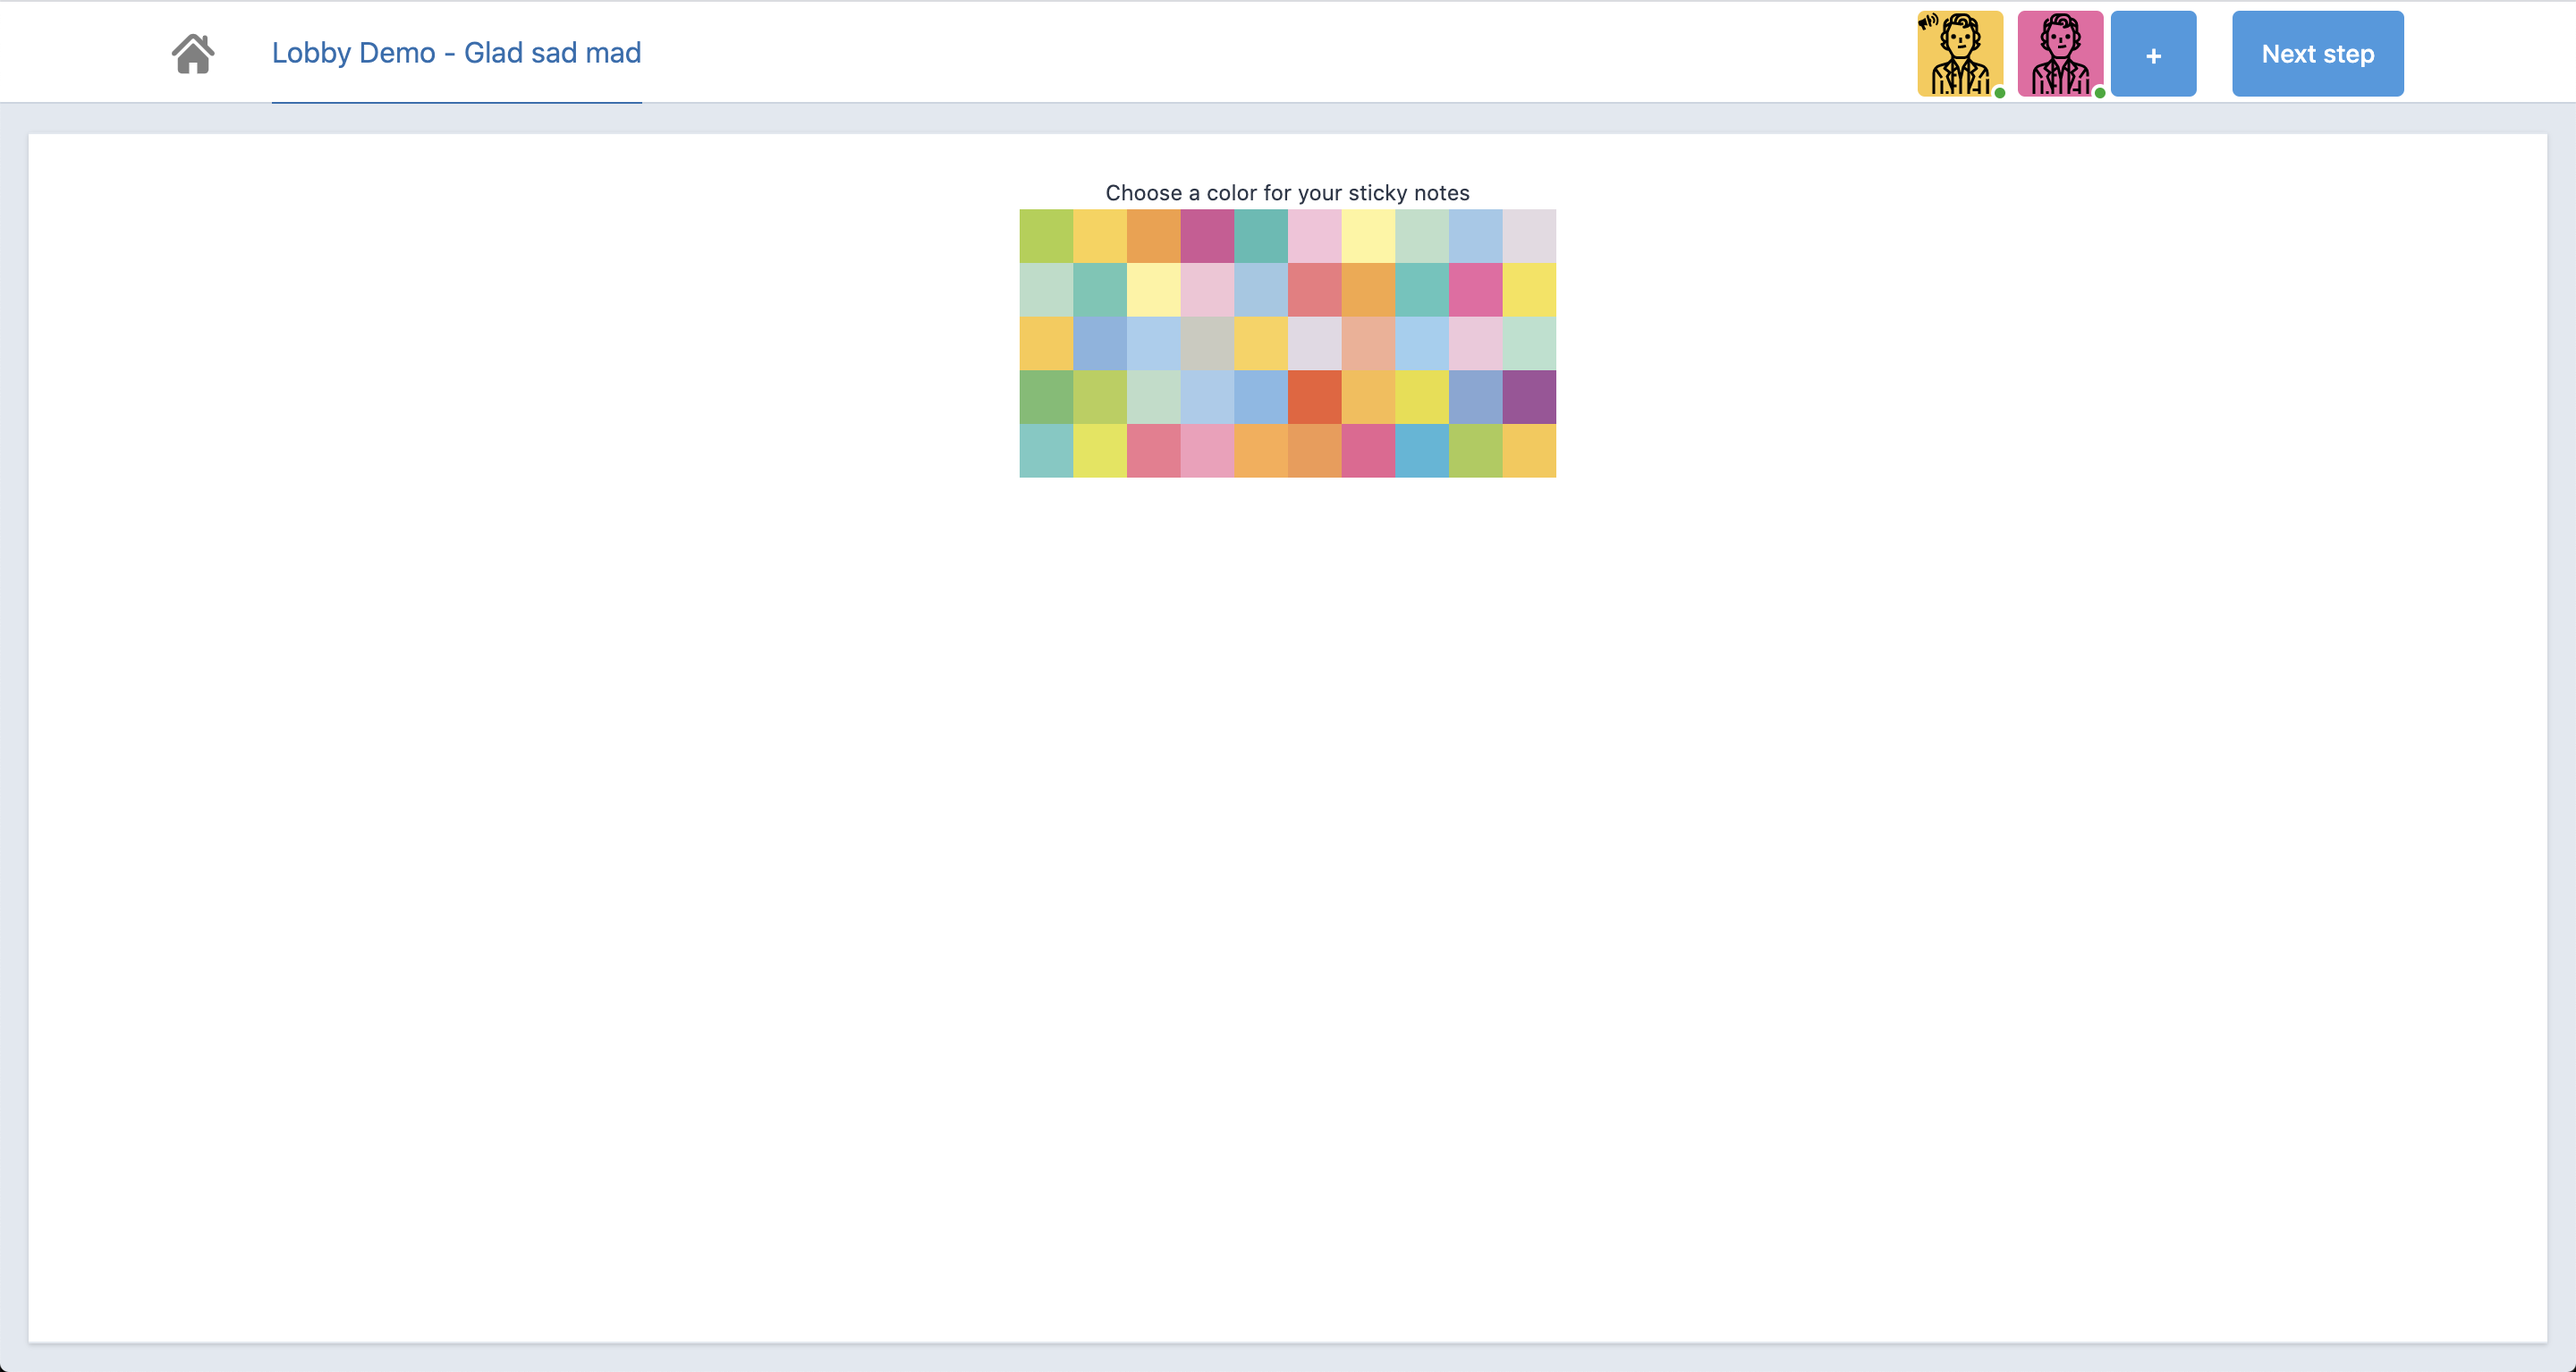
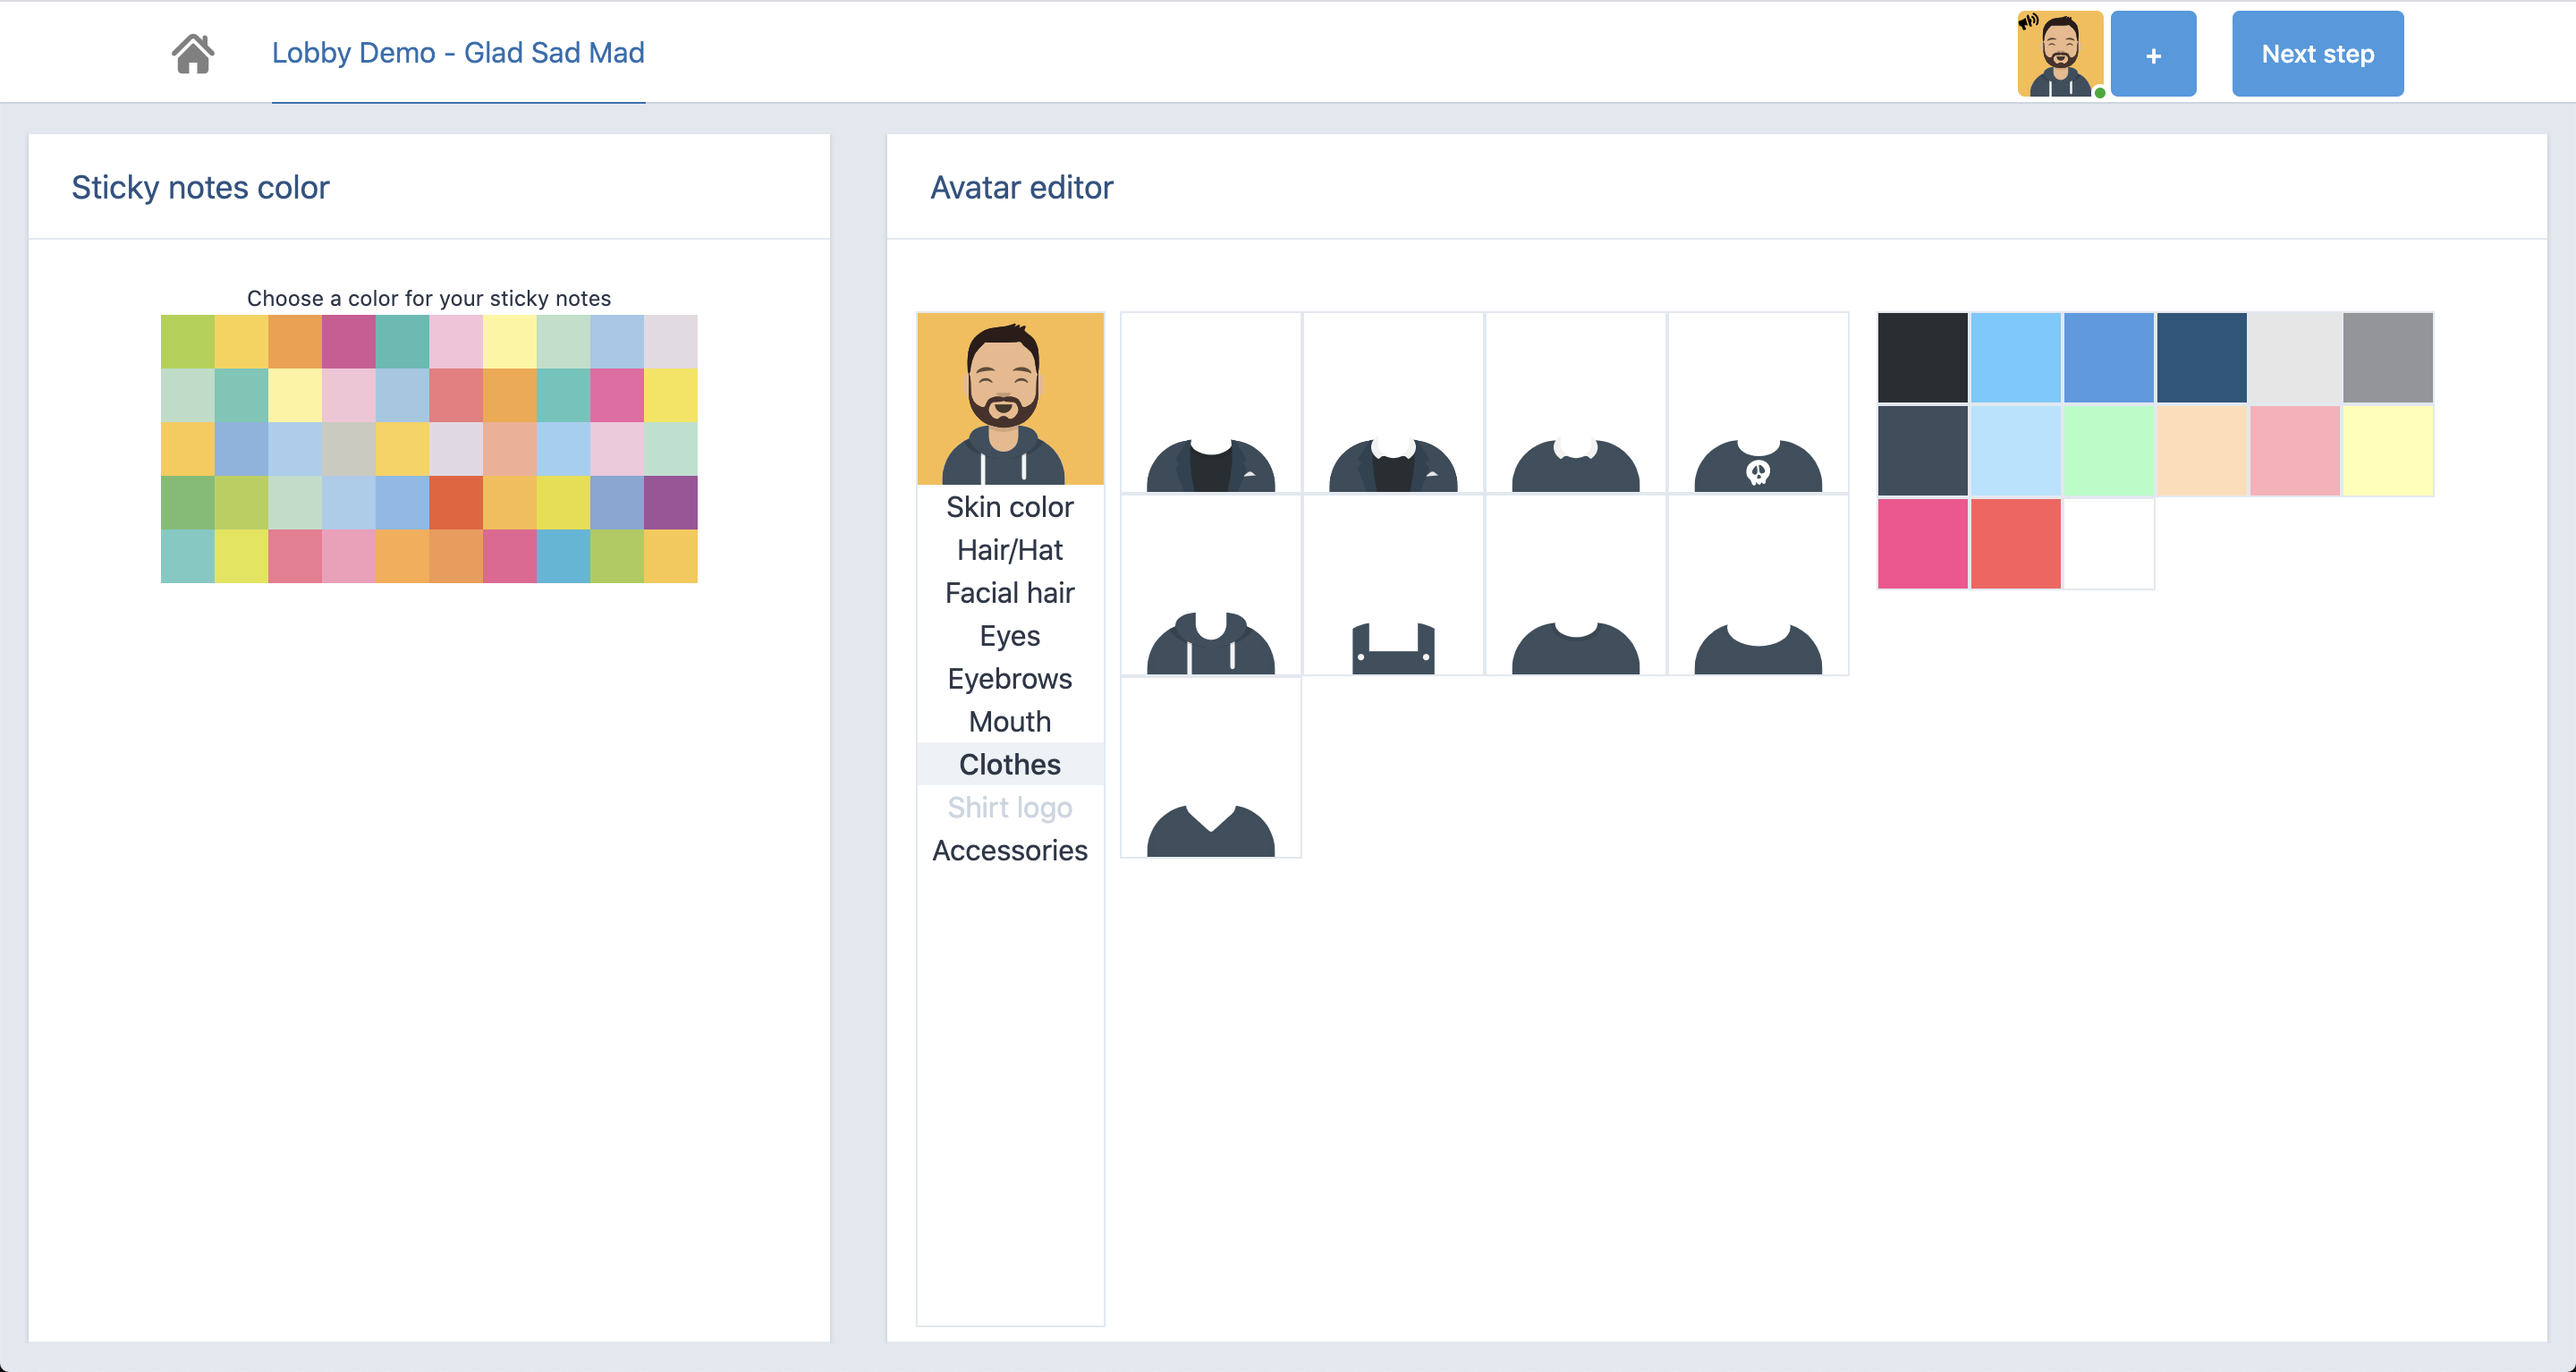
Add a button to sign in with Google (#189)

diff --git a/app/javascript/components/AuthenticationForm.js b/app/javascript/components/AuthenticationForm.js
@@ -1,10 +1,12 @@
 import React from 'react'
 import PropTypes from 'prop-types'
 import { post } from 'lib/httpClient'
+import Card from './Card'
 import Input from './Input'
 import Button from './Button'
+import GoogleButton from 'images/btn_google_signin_light_normal_web@2x.png'
 
-const AuthenticationForm = ({ defaultEmail, onLogIn }) => {
+const AuthenticationForm = ({ defaultEmail, onLogIn, returnUrl }) => {
   const [mode, setMode] = React.useState('signIn')
   const [username, setUsername] = React.useState('')
   const [email, setEmail] = React.useState(defaultEmail || '')
@@ -47,31 +49,41 @@ const AuthenticationForm = ({ defaultEmail, onLogIn }) => {
 
   return (
     <div className='max-w-xl min-w-1/2 mx-auto mt-4'>
-      <form noValidate autoComplete='off' onSubmit={handleSubmit}>
-        <p className='mb-3'>{mode === 'signUp' ? 'Create an account' : 'Log in'}</p>
-        <div>
-          <div className='mb-4'>
-            <Input placeholder='E-mail' name='email' value={email} onChange={(event) => setEmail(event.target.value)} />
-          </div>
-          <div className='mb-4'>
-            <Input placeholder='Password' name='password' value={password} type='password' onChange={(event) => setPassword(event.target.value)} />
-          </div>
-          {mode === 'signUp' && (
+      <Card title={mode === 'signUp' ? 'Create an account' : 'Log in'} center>
+        <form noValidate autoComplete='off' onSubmit={handleSubmit} className='w-full'>
+          <div>
             <div className='mb-4'>
-              <Input placeholder='Username' name='username' value={username} onChange={(event) => setUsername(event.target.value)} />
+              <Input placeholder='E-mail' name='email' value={email} onChange={(event) => setEmail(event.target.value)} />
             </div>
-          )}
-          {mode === 'signIn' && !passwordResetToastDisplayed && <div className='mb-4'><Button primary onClick={resetPassword}>I forgot my password</Button></div>}
-          {mode === 'signIn' && passwordResetToastDisplayed && <div className='mb-4'>An email has been sent</div>}
-        </div>
+            <div className='mb-4'>
+              <Input placeholder='Password' name='password' value={password} type='password' onChange={(event) => setPassword(event.target.value)} />
+            </div>
+            {mode === 'signUp' && (
+              <div className='mb-4'>
+                <Input placeholder='Username' name='username' value={username} onChange={(event) => setUsername(event.target.value)} />
+              </div>
+            )}
+            {mode === 'signIn' && !passwordResetToastDisplayed && <div className='mb-4'><Button primary onClick={resetPassword}>I forgot my password</Button></div>}
+            {mode === 'signIn' && passwordResetToastDisplayed && <div className='mb-4'>An email has been sent</div>}
+          </div>
 
-        <div className='flex items-center justify-between'>
-          <Button contained primary type='submit'>{mode === 'signUp' ? 'Create account' : 'Login'}</Button>
-          <Button primary onClick={toggleMode}>
-            {mode === 'signIn' ? "Don't have an account yet?" : 'Already have an account?'}
-          </Button>
+          <div className='flex items-center justify-between'>
+            <Button contained primary type='submit'>{mode === 'signUp' ? 'Create account' : 'Login'}</Button>
+            <Button primary onClick={toggleMode}>
+              {mode === 'signIn' ? "Don't have an account yet?" : 'Already have an account?'}
+            </Button>
+          </div>
+        </form>
+      </Card>
+
+      {window.constants.googleAuthenticationEnabled && (
+        <div className='text-center mt-4 flex justify-center'>
+          <a href={`/auth/google_oauth2?return_to=${returnUrl ? returnUrl : '/dashboard'}`}>
+            <span>or</span>
+            <img id='google-authentication' src={GoogleButton} width='200' />
+          </a>
         </div>
-      </form>
+      )}
     </div>
   )
 }
@@ -79,6 +91,7 @@ const AuthenticationForm = ({ defaultEmail, onLogIn }) => {
 AuthenticationForm.propTypes = {
   defaultEmail: PropTypes.string,
   onLogIn: PropTypes.func.isRequired,
+  returnUrl: PropTypes.string
 }
 
 export default AuthenticationForm

diff --git a/app/javascript/components/App.js b/app/javascript/components/App.js
@@ -78,8 +78,8 @@ const App = withRouter(({ history }) => {
         <Route path='/sessions/new'>
           <AuthenticationForm
             defaultEmail={initialEmail}
+            returnUrl={returnUrl}
             onLogIn={() => {
-              console.log('Logged in, redirecting to', returnUrl ? returnUrl : '/')
               setLoggedIn(true)
               history.replace(returnUrl ? returnUrl : '/')
              }} />

diff --git a/test/integration/login_test.rb b/test/integration/login_test.rb
@@ -29,4 +29,44 @@ class LoginTest < ActionDispatch::IntegrationTest
     refute_text 'My actions'
     assert_text 'Log in'
   end
+
+  test 'can create a new account with Google' do
+    visit '/'
+    assert_text 'Log in'
+
+    ApplicationController.stub_const(:AUTHORIZED_DOMAINS, ['@notmycompany.com']) do
+      find('#google-authentication').click
+
+      refute_text 'My actions'
+      assert_text 'Log in'
+    end
+
+    ApplicationController.stub_const(:AUTHORIZED_DOMAINS, ['@company.com']) do
+      find('#google-authentication').click
+
+      assert_text 'My actions'
+      assert_equal 'myemail@company.com', Account.last.email
+      assert_equal 'account', Account.last.username
+    end
+  end
+
+  test 'can authenticate to an existing account with Google' do
+    account = create(:account, email: 'myemail@company.com', password: 'mypassword')
+
+    visit '/'
+    assert_text 'Log in'
+
+    ApplicationController.stub_const(:AUTHORIZED_DOMAINS, ['@notmycompany.com']) do
+      find('#google-authentication').click
+
+      refute_text 'My actions'
+      assert_text 'Log in'
+    end
+
+    ApplicationController.stub_const(:AUTHORIZED_DOMAINS, ['@company.com']) do
+      find('#google-authentication').click
+
+      assert_text 'My actions'
+    end
+  end
 end

diff --git a/app/controllers/sessions_controller.rb b/app/controllers/sessions_controller.rb
@@ -21,17 +21,23 @@ class SessionsController < ApplicationController
   end
 
   def omniauth
+    redirect_to single_page_app_path(path: 'sessions/new') and return unless valid_email?(auth.info.email)
+
     account = Account.from_omniauth(auth)
     account.save!
 
     session[:account_id] = account.id
 
-    redirect_to single_page_app_path(path: :dashboard)
+    redirect_to return_to || single_page_app_path(path: :dashboard)
   end
 
   private
 
   def auth
     request.env['omniauth.auth']
+  end
+
+  def return_to
+    request.env['omniauth.origin']
   end
 end

diff --git a/test/test_helper.rb b/test/test_helper.rb
@@ -51,6 +51,12 @@ class ActionDispatch::IntegrationTest
   Capybara.default_driver = ENV.fetch('HEADLESS', false) == 'true' ? :selenium_chrome_headless : :selenium_chrome
   Capybara.default_max_wait_time = 5.seconds
 
+  OmniAuth.config.test_mode = true
+  OmniAuth.config.mock_auth[:google_oauth2] = OmniAuth::AuthHash.new(
+    provider: :google_oauth2,
+    info: { email: 'myemail@company.com', name: 'account' }
+  )
+
   # Reset sessions and driver between tests
   teardown do
     Capybara.reset_sessions!

diff --git a/config/initializers/omniauth.rb b/config/initializers/omniauth.rb
@@ -1,5 +1,9 @@
 # frozen_string_literal: true
 
 Rails.application.config.middleware.use OmniAuth::Builder do
-  provider :google_oauth2, ENV['GOOGLE_CLIENT_ID'], ENV['GOOGLE_CLIENT_SECRET'], skip_jwt: true
+  provider :google_oauth2, ENV['GOOGLE_CLIENT_ID'], ENV['GOOGLE_CLIENT_SECRET'],
+  skip_jwt: true,
+  scope: 'userinfo.email,userinfo.profile',
+  prompt: 'consent',
+  origin_param: 'return_to'
 end

diff --git a/README.md b/README.md
@@ -41,7 +41,7 @@ rails s
 A retrospective is composed of 6 steps.
 
 ### 1. Gathering
-Group members gather in the lobby and can change their sticky notes' color.
+Group members gather in the lobby and can change their sticky notes' color or customize their avatar.
 
 ![Gathering step](docs/gathering.png?raw=true "Gathering step")
 
@@ -161,7 +161,6 @@ Thank you a lot:
 Also, I want to thank following SVG creators from the Noun Project:
 - Ian Mawle for "Light Bulb"
 - Alice Design for "chat" and "Megaphone"
-- monkik for "avatar"
 - Setyo Ari Wibowo for "random"
 - Three Six Five for "Check"
 - Bohdan Burmich for "Eye"
